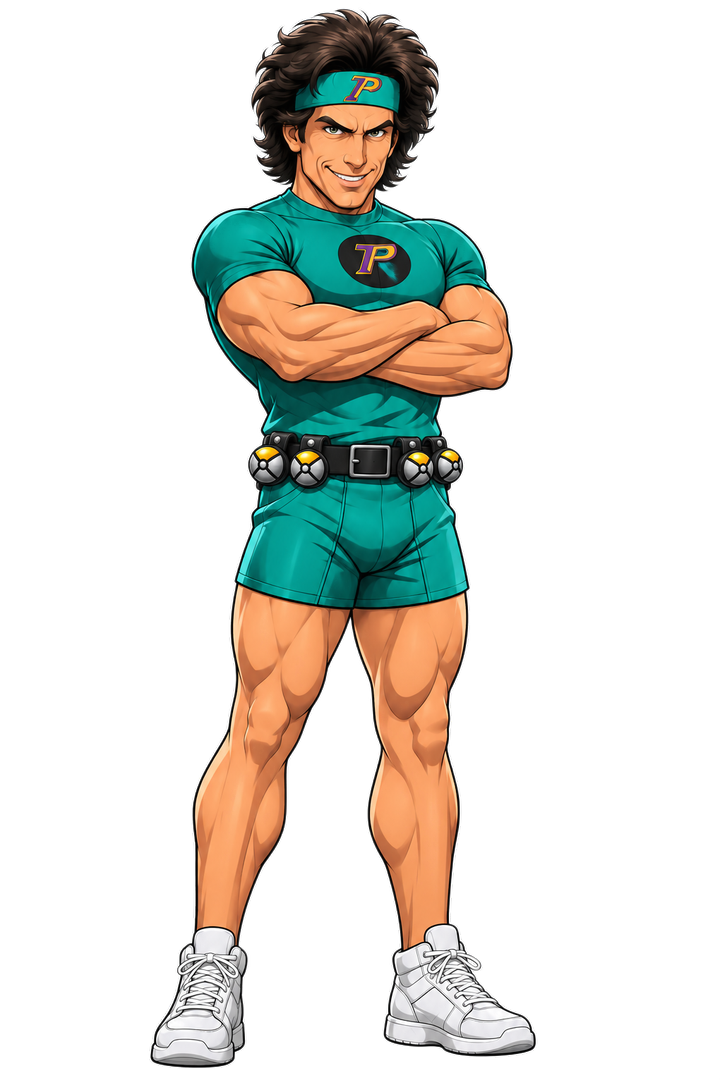
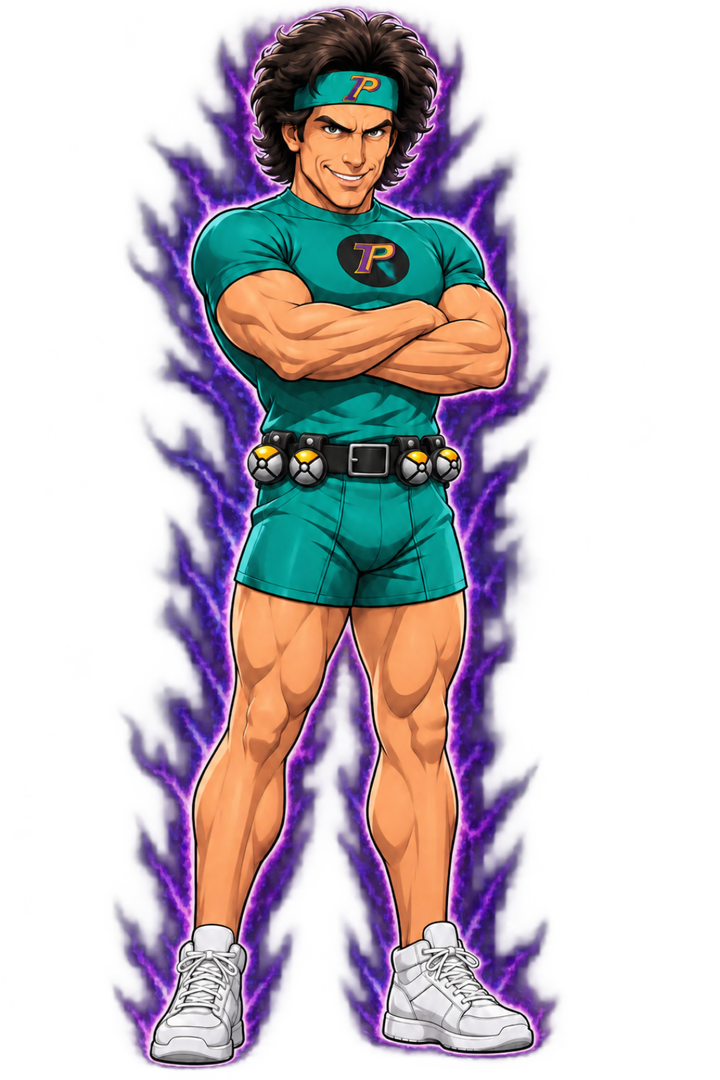
Tony Perkis: new Tony1/Tony2 art, intro wording, Tony3 post-defeat scene
Claude-Session: https://claude.ai/code/session_0176tt6w3UJYKteCbZSbBfKG

Changed region(s): [[0.1528, 0.0, 0.7944, 1.0]]

diff --git a/game/app_script.html b/game/app_script.html
@@ -1724,7 +1724,7 @@ const TONY_NAME = 'Tony Perkis';
 const tonyLines = n => ['Oh yes, that was wonderful. So entertaining. The cinematography, the editing techniques. Though I must say, the villain is a bit... over the top.',
   "Did you ever hear the story of Icarus? You're just like Icarus, too close to the sun.",
   `The PerkiSystem doesn't work with cheaters, like ${n}. So I have taken your Mons as my own.`,
-  "I'm not going to give you a fight, I'm going to show you a fight!"];
+  "I'm not going to give you a fight, I'm going to show you the fight!"];
 const ANNA_CHAMP = 'THE OWNER';
 const ANNA_CHAMP_LINES = ["Your Mons are strong. I'll win with them!", "My team can't win without them. Give me your essence. I'll win it all with dem boys!", "Now let's kick this off. I'll own your Mons, then I'm owning the whole region."];
 const modeName = g => g.mode === 'triples' ? 'Triples' : g.mode === 'doubles' ? 'Doubles' : 'Singles';
@@ -3181,7 +3181,7 @@ async function advBattleOver(won) {
   // gym, Elite Four, Champion
   if (fight.type === 'e4') { battleOff(); bgmStart('hall', {fade: 3, vol: .45});   // the hall music comes back while the trainers talk
     await e4Talk({...E4_FIGHTS[fight.stage.key], key: fight.stage.key}, 'win'); }
-  else if (fight.type === 'champion') await championDefeat(fight.mirror ? (summitAnna() ? 'Well played. Some things cannot be owned.' : MIRROR_LINES.defeat) : undefined);
+  else if (fight.type === 'champion') await championDefeat(isTT() ? 'How you doing little Tony? ...bad' : fight.mirror ? (summitAnna() ? 'Well played. Some things cannot be owned.' : MIRROR_LINES.defeat) : undefined, isTT());
   else await talk(fight.speaker, LINES[fight.stage.key].win);
   if (fight.type === 'champion') { gloomOff(); await finale(); }
   endBattleQuietly(); ctx = null;
@@ -3262,7 +3262,7 @@ async function championReveal(species) {
 // the Champion, seen only as a dark silhouette (waist up) in the fog
 // the whole layout is in place from the start; only opacity changes, so nothing moves while he speaks
 const ciJerry = (over, name) => `<div class="ciStack"><div class="ciFig"><span class="ciHumanBox ciJerry" id="ciImg"><img class="jy j1 on" src="portraits/jerry1.png" alt="" draggable="false"><img class="jy j2" src="portraits/jerry2.png" alt="" draggable="false"><img class="jy j3" src="portraits/jerry3.png" alt="" draggable="false"></span>${over ? `<div class="ciOver" id="ciOver"><b>${over}</b></div>` : ''}</div><b class="ciName" id="ciName">${esc(name)}</b><p class="ciLine" id="ciLine"></p></div>`;
-const ciTony = (over, name) => `<div class="ciStack"><div class="ciFig"><span class="ciHumanBox ciJerry ciTony" id="ciImg"><img class="jy j1 on" src="portraits/tony1.jpg" alt="" draggable="false"><img class="jy j2" src="portraits/tony2.png" alt="" draggable="false"></span>${over ? `<div class="ciOver" id="ciOver"><b>${over}</b></div>` : ''}</div><b class="ciName ciTonyName" id="ciName">${esc(name)}</b><p class="ciLine" id="ciLine"></p></div>`;
+const ciTony = (over, name) => `<div class="ciStack"><div class="ciFig"><span class="ciHumanBox ciJerry ciTony" id="ciImg"><img class="jy j1 on" src="portraits/tony1.png" alt="" draggable="false"><img class="jy j2" src="portraits/tony2.png" alt="" draggable="false"></span>${over ? `<div class="ciOver" id="ciOver"><b>${over}</b></div>` : ''}</div><b class="ciName ciTonyName" id="ciName">${esc(name)}</b><p class="ciLine" id="ciLine"></p></div>`;
 const ciLayout = (over, name = 'CANCER') => `<div class="ciStack"><div class="ciFig"><span class="ciHumanBox" id="ciImg"><img class="ciHuman" src="cancer.png" alt="" draggable="false"></span>${over ? `<div class="ciOver" id="ciOver"><b>${over}</b></div>` : ''}</div><b class="ciName" id="ciName">${esc(name)}</b><p class="ciLine" id="ciLine"></p></div>`;
 async function ciSay(lineEl, text, ms, tap) {
   lineEl.textContent = text; lineEl.classList.remove('say'); void lineEl.offsetWidth; lineEl.classList.add('say');
@@ -3276,12 +3276,12 @@ function showCoupon() {
   { const m = toneMuted; toneMuted = false; tone(880, 0, .25, 'triangle', .08); tone(1175, .12, .3, 'triangle', .07); toneMuted = m; }
   return new Promise(r => { $('couponGo').onclick = () => { c.classList.add('leaving'); setTimeout(() => { c.hidden = true; c.classList.remove('on', 'leaving'); r(); }, 950); }; });
 }
-async function championDefeat(said = CHAMP_LINES.win[0]) {
+async function championDefeat(said = CHAMP_LINES.win[0], tony = false) {
   const el = $('champIntro'), stage = $('ciStage');
   let release = () => {};
   const tapP = new Promise(r => { release = r; });
   $('ciSkip').onclick = e => { e.stopPropagation(); release(); };
-  stage.innerHTML = ciLayout('');
+  stage.innerHTML = tony ? `<div class="ciStack"><div class="ciFig"><span class="ciHumanBox ciJerry ciTony ciTonyHurt" id="ciImg"><img class="jy j3 on" src="portraits/tony3.png" alt="" draggable="false"></span></div><b class="ciName" id="ciName"></b><p class="ciLine" id="ciLine"></p></div>` : ciLayout('');
   // a slow fade: the battle buttons melt away first, then the dark settles in, then he appears
   const slow = !reducedMotion(), ctl = $('controls');
   if (slow && ctl) { ctl.style.transition = 'opacity .5s ease'; ctl.style.opacity = '0'; ctl.style.pointerEvents = 'none'; }
@@ -6057,7 +6057,7 @@ $('optVersion').textContent = `Version ${BUILD}`;
 })();
 
 // Automated tests open the game with ?test to read the battle state.
-if (new URLSearchParams(location.search).has('test')) window.__neoTest = {hp: () => battle ? JSON.stringify(['p1', 'p2'].map(sd => battle[sd].pokemon.map(x => x.hp))) : null, linkClose: () => link && link.conn && link.conn.close(), adv: {lusRate: l => lusRate(l), openQuest: (i, o) => openQuest(i, o), champIntro: tony => championIntro([], 50, null, tony ? {name: TONY_NAME, lines: tonyLines(A ? A.playerName : 'Tucker'), tony: true} : {name: ANNA_CHAMP, lines: ANNA_CHAMP_LINES, jerry: true}), aide: () => oklaAide(), migrate: () => { migrateA(); return A.team.map(m => m.final.ability); }, labOn: () => labOn(), openMap: () => openAdvMap({}), starters: lus => { introLus = lus; introPick = null; show('intro'); showStarters(); }, mutA: fn => { fn(A); saveA(); }, win: () => { battle.forceWin('p1'); return refresh(); }, live: () => !!battle && !battle.ended, busy: () => playing || refreshing, fightType: () => ctx && ctx.fight ? ctx.fight.type : null, koFoe: () => { const f = battle && battle.p2.active[0]; if (!f || f.hp <= 0) return false; f.hp = 1; try { f.setStatus('slp'); } catch (e) {} return true; }, team: spec => { A.team = spec.map(([f, l]) => E.newMember(f, l)); A.pos = 17; A.playerName = 'Tyler'; saveA(); }, bgm: () => bgm ? {n: bgm.name, src: !!bgm.src, snd: evoSound, st: audio && audio.state} : null, summit: () => openSummit(), ctx: () => ctx, art: (n, l) => artOf(n, l), lusSide: (s, n) => lusSide(s, n), start: (n, f) => startRegionalAdventure(n, f), refreshQuests: () => refreshSideQuests(), fight: r => routeBattle(r), A: () => A, dex: n => showDexEntry(n), openDex: () => openDex('adventure', 'map'), addCaught: c => addCaught(c)}};
+if (new URLSearchParams(location.search).has('test')) window.__neoTest = {hp: () => battle ? JSON.stringify(['p1', 'p2'].map(sd => battle[sd].pokemon.map(x => x.hp))) : null, linkClose: () => link && link.conn && link.conn.close(), adv: {lusRate: l => lusRate(l), openQuest: (i, o) => openQuest(i, o), champIntro: tony => championIntro([], 50, null, tony ? {name: TONY_NAME, lines: tonyLines(A ? A.playerName : 'Tucker'), tony: true} : {name: ANNA_CHAMP, lines: ANNA_CHAMP_LINES, jerry: true}), aide: () => oklaAide(), champDefeat: t => championDefeat(t ? 'How you doing little Tony? ...bad' : undefined, !!t), migrate: () => { migrateA(); return A.team.map(m => m.final.ability); }, labOn: () => labOn(), openMap: () => openAdvMap({}), starters: lus => { introLus = lus; introPick = null; show('intro'); showStarters(); }, mutA: fn => { fn(A); saveA(); }, win: () => { battle.forceWin('p1'); return refresh(); }, live: () => !!battle && !battle.ended, busy: () => playing || refreshing, fightType: () => ctx && ctx.fight ? ctx.fight.type : null, koFoe: () => { const f = battle && battle.p2.active[0]; if (!f || f.hp <= 0) return false; f.hp = 1; try { f.setStatus('slp'); } catch (e) {} return true; }, team: spec => { A.team = spec.map(([f, l]) => E.newMember(f, l)); A.pos = 17; A.playerName = 'Tyler'; saveA(); }, bgm: () => bgm ? {n: bgm.name, src: !!bgm.src, snd: evoSound, st: audio && audio.state} : null, summit: () => openSummit(), ctx: () => ctx, art: (n, l) => artOf(n, l), lusSide: (s, n) => lusSide(s, n), start: (n, f) => startRegionalAdventure(n, f), refreshQuests: () => refreshSideQuests(), fight: r => routeBattle(r), A: () => A, dex: n => showDexEntry(n), openDex: () => openDex('adventure', 'map'), addCaught: c => addCaught(c)}};
 
 // ---------- developer mode: tap the Mon on the loading screen 5 times ----------
 let devMode = store.get('devMode', false);
